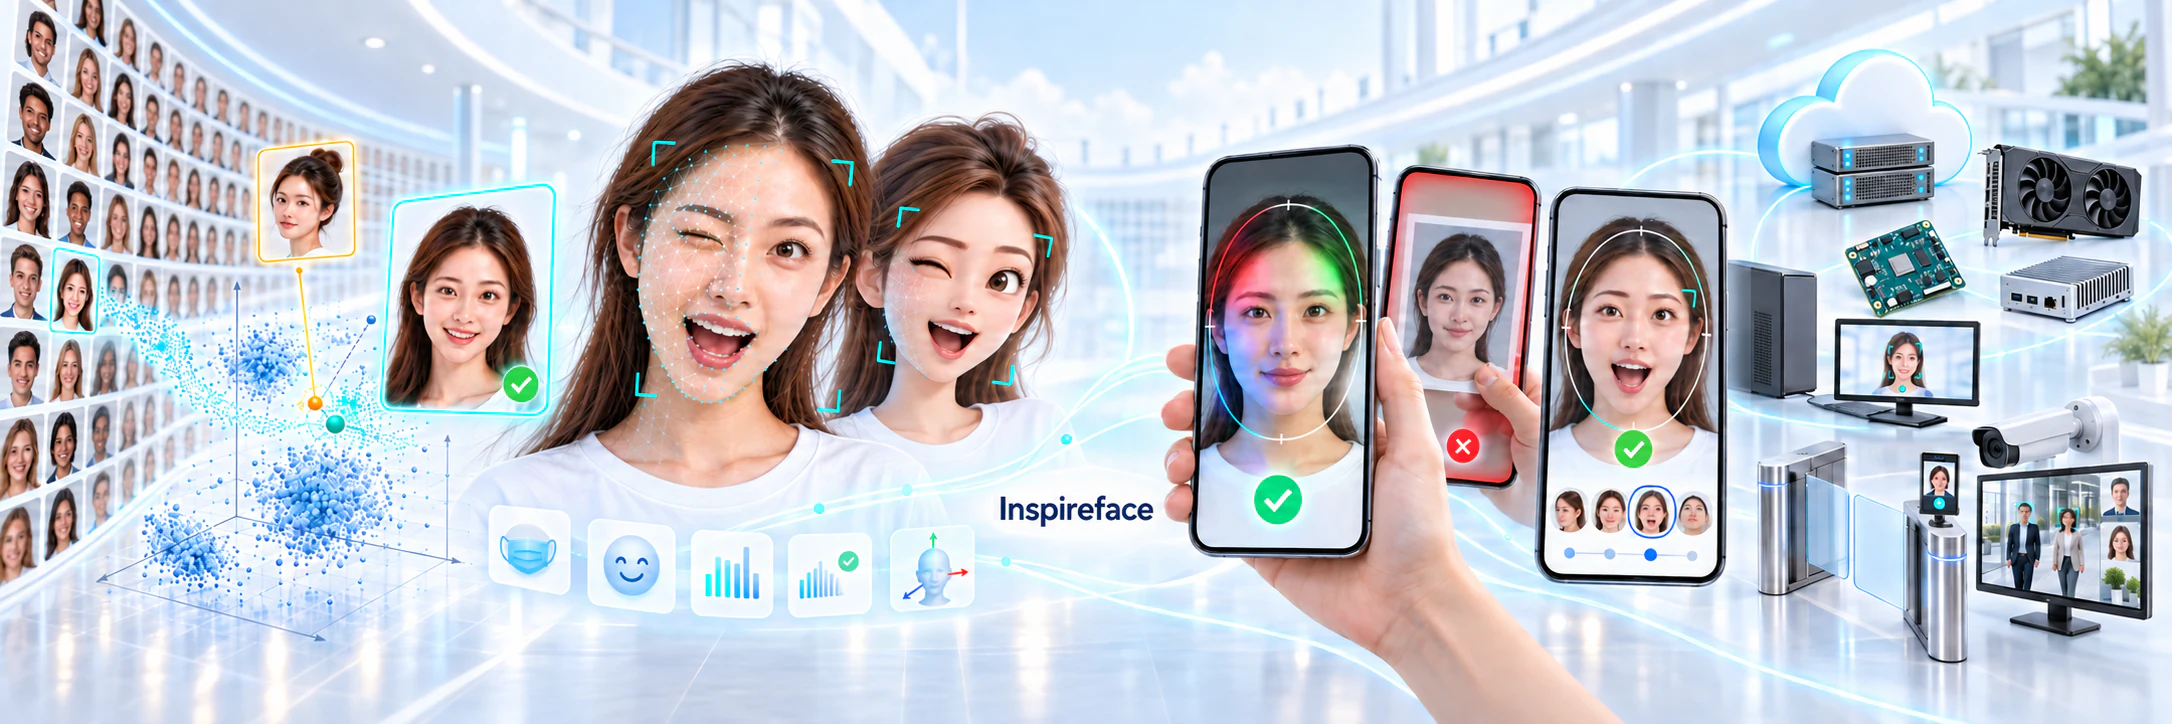
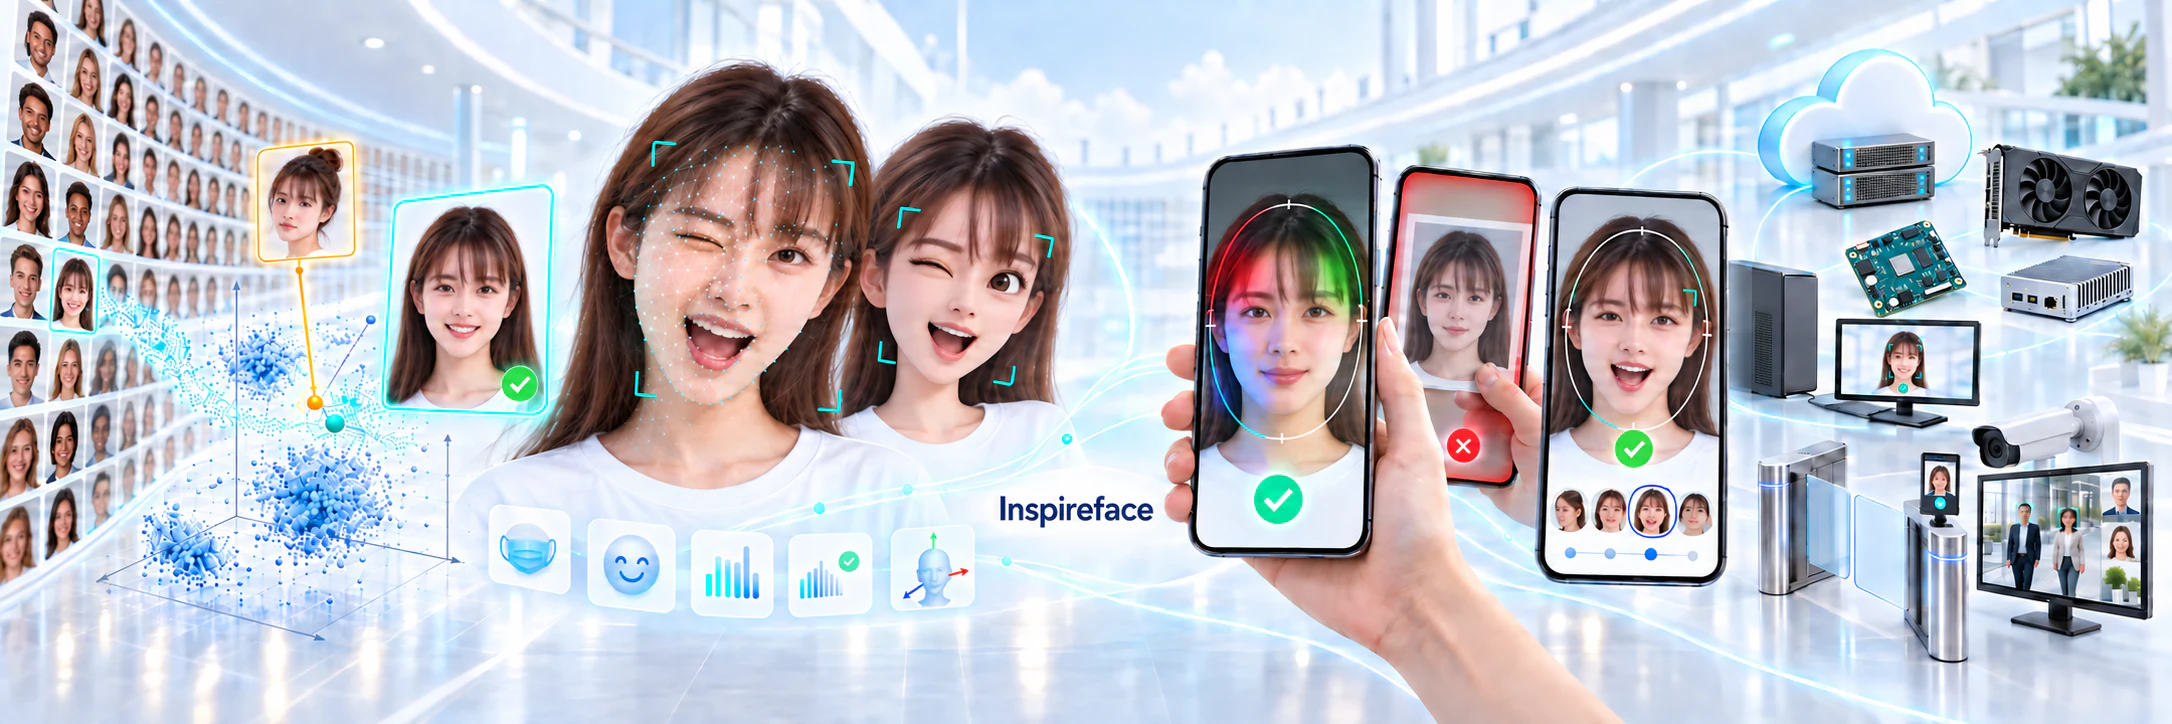
fix

diff --git a/ci/README.md b/ci/README.md
@@ -13,3 +13,9 @@ isolation for the dependencies in `python/pyproject.toml`. Override
 `ISF_WHEEL_PYTHON` to select another installed interpreter. The ctypes package
 produces one `py3-none` wheel per platform; building that wheel does not replace
 testing installation and imports on each supported Python version.
+
+The Ubuntu Python test script downloads `Pikachu` before building and passes
+explicit fixture/model paths to `sample_testcase.run`. Images under
+`test_res/data` are checked in; `test_res/pack` is ignored by Git and must be
+populated on a fresh runner. Model downloads fail on HTTP/network errors and
+replace the target file only after a successful, nonempty download.
